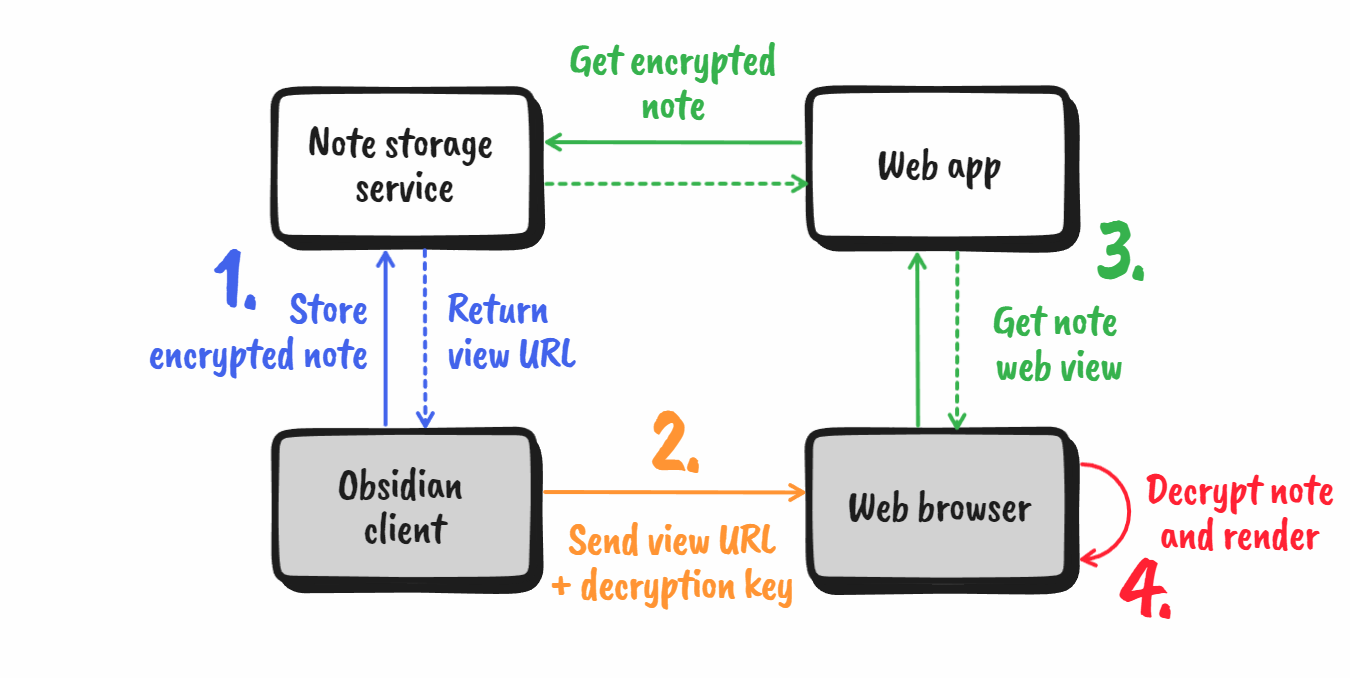
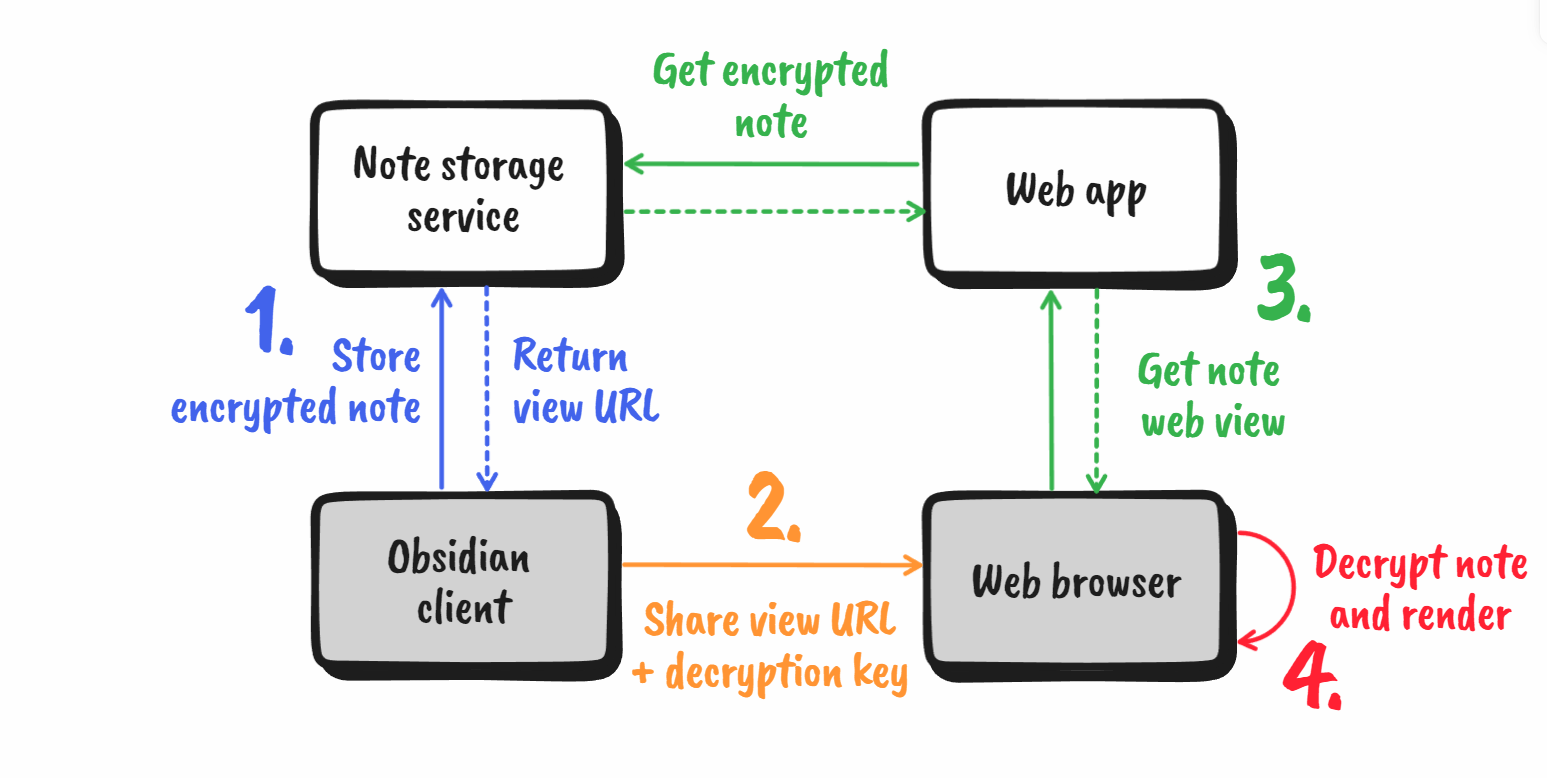
first draft

diff --git a/assets/css/extended/main.css b/assets/css/extended/main.css
@@ -40,7 +40,7 @@ h6 {
 }
 
 .post-content code {
-    font-size: 1em;
+    font-size: 1.1em;
 }
 
 .book-info {

diff --git a/content/posts/how-to-e2e-encryption.md b/content/posts/how-to-e2e-encryption.md
@@ -16,14 +16,22 @@ Other Obsidian users have felt this pain too. For example, Tim Rogers created th
 
 That's why I decided to build [Noteshare.space](https://noteshare.space), my own, end-to-end secured implementation of a "share a note to the web" service. The implementation was inspired by [Thomas Konrad's talk](https://youtu.be/mffWMMVMMLs) about how the (now retired) Firefox Send file sharing service worked.
 
+In this article:
+
+1. [Functional requirements](#functional-requirements)
+2. [Architecture](#architecture)
+3. [Security mechanisms](#security-mechanisms)
+4. [Sharing encryption keys](#sharing-encryption-keys)
+5. [Conclusion](#conclusion)
+
 ## Functional requirements
 
 Now that the stage has been set, let's review the formal requirements for this project:
 
-- **One-click sharing** from the Obsidian UI (as easy as sharing a google doc via URL)
-- **End-to-end encryption** (so you can safely share e.g. work documentation, or a love letter)
-- **Temporary storage** (Noteshare is not intended as a syncing, backup, or permanent hosting solution)
-- Shared notes can be opened by non-Obsidian users (i.e. we will build a **web viewer**)
+* **One-click sharing** from the Obsidian UI (as easy as sharing a google doc via URL)
+* **End-to-end encryption** (so you can safely share e.g. work documentation, or a love letter)
+* **Temporary storage** (Noteshare is not intended as a syncing, backup, or permanent hosting solution)
+* Shared notes can be opened by non-Obsidian users (i.e. we will build a **web viewer**)
 
 As we will see, it is actually quite straight-forward to meet all of these. Now, let's take a look at the architecture I came up with.
 
@@ -53,7 +61,7 @@ Let's take a look at the encryption first. The following snippet shows the encry
 ```ts
 function encrypt(plaintext, key) {
   // Encrypt the message in CBC mode
-  const ciphertext = AES(plaintext, key, {mode: "CBC"});
+  const ciphertext = AES_encrypt(plaintext, key, {mode: "CBC"});
   // Compute keyed message digest
   const hmac = HMAC_SHA_256(ciphertext, key)
   
@@ -72,7 +80,7 @@ The user can now safely send the ciphertext and HMAC values to the storage serve
 
 ### Generating single-use keys
 
-There remains just one small problem: what should we use as the symmetric key? It is absolutely [not safe](https://en.wikipedia.org/wiki/Random_number_generator_attack#:~:text=Modern%20cryptographic%20protocols%20often%20require,as%20random%20number%20generator%20attacks.) to use `Math.random()` for this. Most standard random number generators are only [pseudorandom](https://en.wikipedia.org/wiki/Pseudorandom_number_generator) and can [easily be exploited](https://www.synopsys.com/blogs/software-security/pseudorandom-number-generation/) to derive the secret key used by the client.
+There remains just one small problem: what should we use as the symmetric key? It is absolutely [not safe](https://en.wikipedia.org/wiki/Random_number_generator_attack) to use `Math.random()` for this. Most standard random number generators are only [pseudorandom](https://en.wikipedia.org/wiki/Pseudorandom_number_generator) and can [easily be exploited](https://www.synopsys.com/blogs/software-security/pseudorandom-number-generation/) to derive the secret key used by the client.
 
 To generate a secure key, we need a cryptographically secure random number generator. In my implementation, I used the common **[PBKDF2 algorithm](https://cryptobook.nakov.com/mac-and-key-derivation/pbkdf2)** using the Markdown content as the seed. This is secure as long as the attacker does not know the Markdown content, in which case there is no point to cracking the key in the first place. To ensure the key is unique even when the same note is shared twice, I concatenate the current timestamp to the seed.
 
@@ -95,26 +103,46 @@ As a solution, we can generate a public-private keypair (e.g. a 2048-bit RSA key
 
 While neat, this solves a problem that is beyond the goal for Noteshare, which is to securely exchange text. Therefore I used the symmetric encryption approach.
 
-## Sharing encryption keys 
+## Sharing encryption keys   
 
-- How do we then share the key if the server is not allowed to be able to decrypt your note?
-- For this we use a clever feature of web browsers you have most likely used before:
-- e.g. see the following URL: `https://en.wikipedia.org/wiki/Uniform_Resource_Identifier#Syntax`
-- Part of the URI syntax is the `["#" fragment]` suffix.
-- It is most commonly used by web browsers to automatically scroll to a specific header on a webpage, in this case the “Syntax” subsection of the Wikipedia article.
-- What is unique about the fragment component of the URI is that web browsers never include it in their HTTP requests.
-- In other words, we can add data to URLs that are accessible to the browser, but not the server.
-	- –> Perfect for our encryption key!
-- In this way, we can easily share the note with the decryption key: `https://noteshare.space/note/[NOTE_ID]#[DECRYPTION_KEY]`
-- The returned web page includes the encrypted note in base64. The included JavaScript then pulls the decryption key from the URL fragment and retrieves the plaintext note.
+How can we share the decryption key with the recipient when the storage service is not allowed to see it? For this, we can make clever use of the `#` symbol in URIs:
 
-## Noteshare.space
+{{<figure width=720 align=center src="/posts/media/noteshare-uri.png" title="Securely encoding decryption keys in URIs" caption="" attrlink="" attr="Copyright © 2022 mcndt">}}
 
-- It is on this foundation that I built Noteshare.space. I initially built it for my own personal use, but have since opened use to the entire Obsidian community.
+The `["#" fragment]` syntax is most commonly used in web URLs to indicate to the browser to scroll to a specific section of the page (for example: [ `https://en.wikipedia.org/wiki/Uniform_Resource_Identifier#Syntax` ](https://en.wikipedia.org/wiki/Uniform_Resource_Identifier#Syntax)).
+What is unique about the fragment component of URIs is that web browsers never include it in their HTTP requests to the server.
+In other words, we can use it to add data to URLs that are accessible to the browser, but not the server. Perfect for our decryption key! The sketch below illustrates the steps the browser takes to render the decrypted note:
+
+<!-- * In this way, we can easily share the note with the decryption key: `https://noteshare.space/note/[NOTE_ID]#[DECRYPTION_KEY]` -->
+<!-- * The returned web page includes the encrypted note in base64. The included JavaScript then pulls the decryption key from the URL fragment and retrieves the plaintext note. -->
+
+{{<figure width=720 align=center src="/posts/media/noteshare-decryption.png" title="Retrieving ciphertext and decrypting in-browser" caption="" attrlink="" attr="Copyright © 2022 mcndt">}}
+
+We can access the URL fragment using the JavaScript [Location API](https://developer.mozilla.org/en-US/docs/Web/API/Location):
+
+```ts
+/* In the browser: */
+
+// Retrieve ciphertext, hmac and key
+const {ciphertext, hmac_received} = getCiphertextFromPage()
+const key = location.hash.slice(1);  // must slice out the '#' character
+
+// Check if ciphertext is correct
+const hmac_computed = HMAC_SHA_256(ciphertext, key)
+if (hmac_computed != hmac_received) 
+  throw new Error('HMAC check failed!')
+
+// Decrypt
+const plaintext = AES_decrypt(ciphertext, key, {mode: "CBC"});
+renderMarkdown(plaintext)
+```
+
+And that's all there is to it!
 
 ## Conclusion
 
-- In this article, I established the groundwork of how I built an end-to-end encrypted data storage service.
-- However, note that this is far from everything you need to build an encrypted data hosting service!
-	- You need to protect your service from abuse, both in terms of volume of data (rate/volume limiting) and volume of requests (DOS protection).
-	- Furthermore, you might want to implement some mechanism to block known bad actors from your system.
+In this article, I established the groundwork for building an end-to-end encrypted data storage service.
+It is on this foundation that I built my own encrypted note sharing service. I initially built it for my own personal use, but have since opened access to the entire Obsidian community. You can find more information about the service and installation instruction for the Obsidian plugin on [Noteshare.space](noteshare.space).
+
+Note that this is far from everything you need to host a web service! You must protect your service form abuse, both in terms of volume of data (rate/volume limiting) and volume of requests (DOS protection).
+Furthermore, you might want to implement a mechanism to block known back actors from your system.
